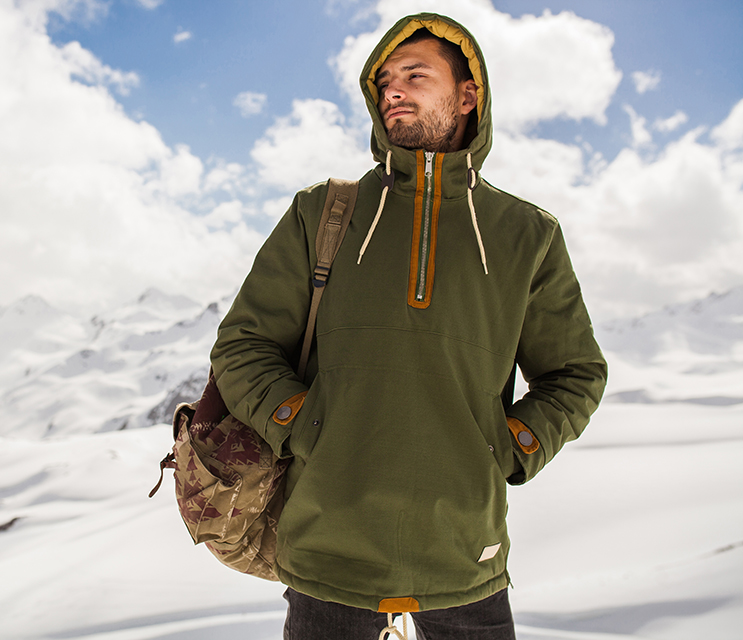
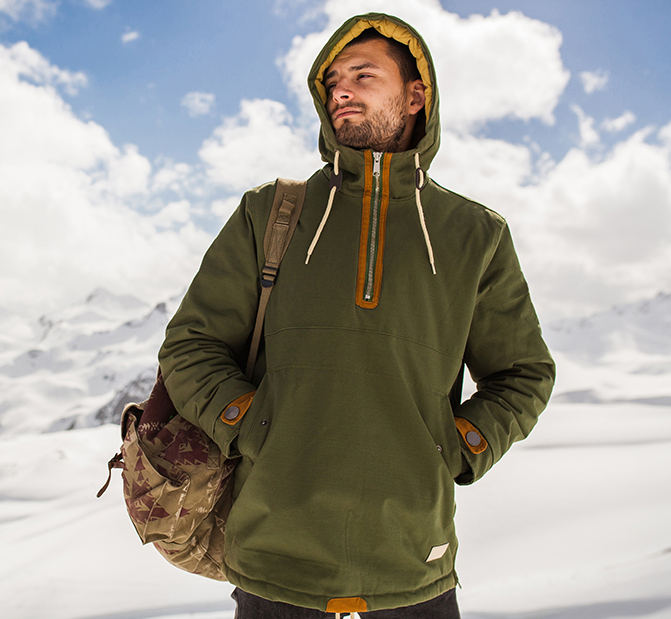
changes homepage

diff --git a/index.html b/index.html
@@ -29,24 +29,23 @@
             </nav>
         </header>
         <main>
-            <section>
+            <section class="container">
                 <h2>Free delivery over 999,-</h2>
                 <h2>30 day open sale</h2>
             </section>
-            <section>
-                <div class="products">
+            <section class="container">
                     <img src="images/water_man.jpg" height="300" width="300" alt="man in a cano" />
-                    <a href="sale.html"class="cta">Summer Jackets</a>
-                </div>
-                <div class="products">
                     <img src="images/hipster_man.jpg" height="300" width="300" alt="hipsterman in jacket" />
-                    <a href="sale.html"class="cta">Sport Jackets</a>
-                </div>
-                <div class="products">
-                    <img src="images/mountain_man.jpg" height="300" width="300" alt="man on mountain" />
-                    <a href="sale.html" class="cta">Winter Jackets</a>
-                 </div>
-                </section>
+                    <img src="images/mountain_man2.jpg" height="300" width="300" alt="man on mountain" />
+                    </section>
+                    <section>
+                        <div class="button1">
+                            <a href="sale.html"class="cta">Summer Jackets</a>
+                        </div>
+                        
+                        <a href="sale.html"class="cta button2">Sport Jackets</a>
+                        <a href="sale.html" class="cta button3">Winter Jackets</a>
+                    </section>
                 <section class="couple">
                     <div>
                         <h3>Must haves</h3>

diff --git a/style.css b/style.css
@@ -65,13 +65,15 @@ body{
 }
 
 h2 {
-    text-align: center;
+   text-align: center;
+   padding: 20px;
     font-family: 'Lato', arial, sans-serif;
-    font size: 16px;
+    font-size: 18px;
 }
 
-.products {
-position: relative;
+.container {
+    display: flex;
+    justify-content: space-evenly
 }
 
 .couple {
@@ -103,11 +105,32 @@ h4 {
 .cta {
 background-color: #c7d7d9;
 color: #0a3641;
-opacity: 0.6;
+opacity: 0.8;
 font-size: 0,8em;
 text-transform: uppercase;
-padding: 10px 50px;
+padding: 10px 30px;
 border-radius: 10px;
+}
+
+.button1 {
+    position: relative;
+    bottom: 5px;
+    left: 180px;
+    top: -50px;  
+}
+
+.button2 {
+    position: relative;
+    bottom: 5x;
+    left: 630px;
+    top: -70px;
+}
+
+.button3 {
+    position: relative;
+    bottom: 10px;
+    left: 870px;
+    top: -70px;
 }
 
 .shop_now {
